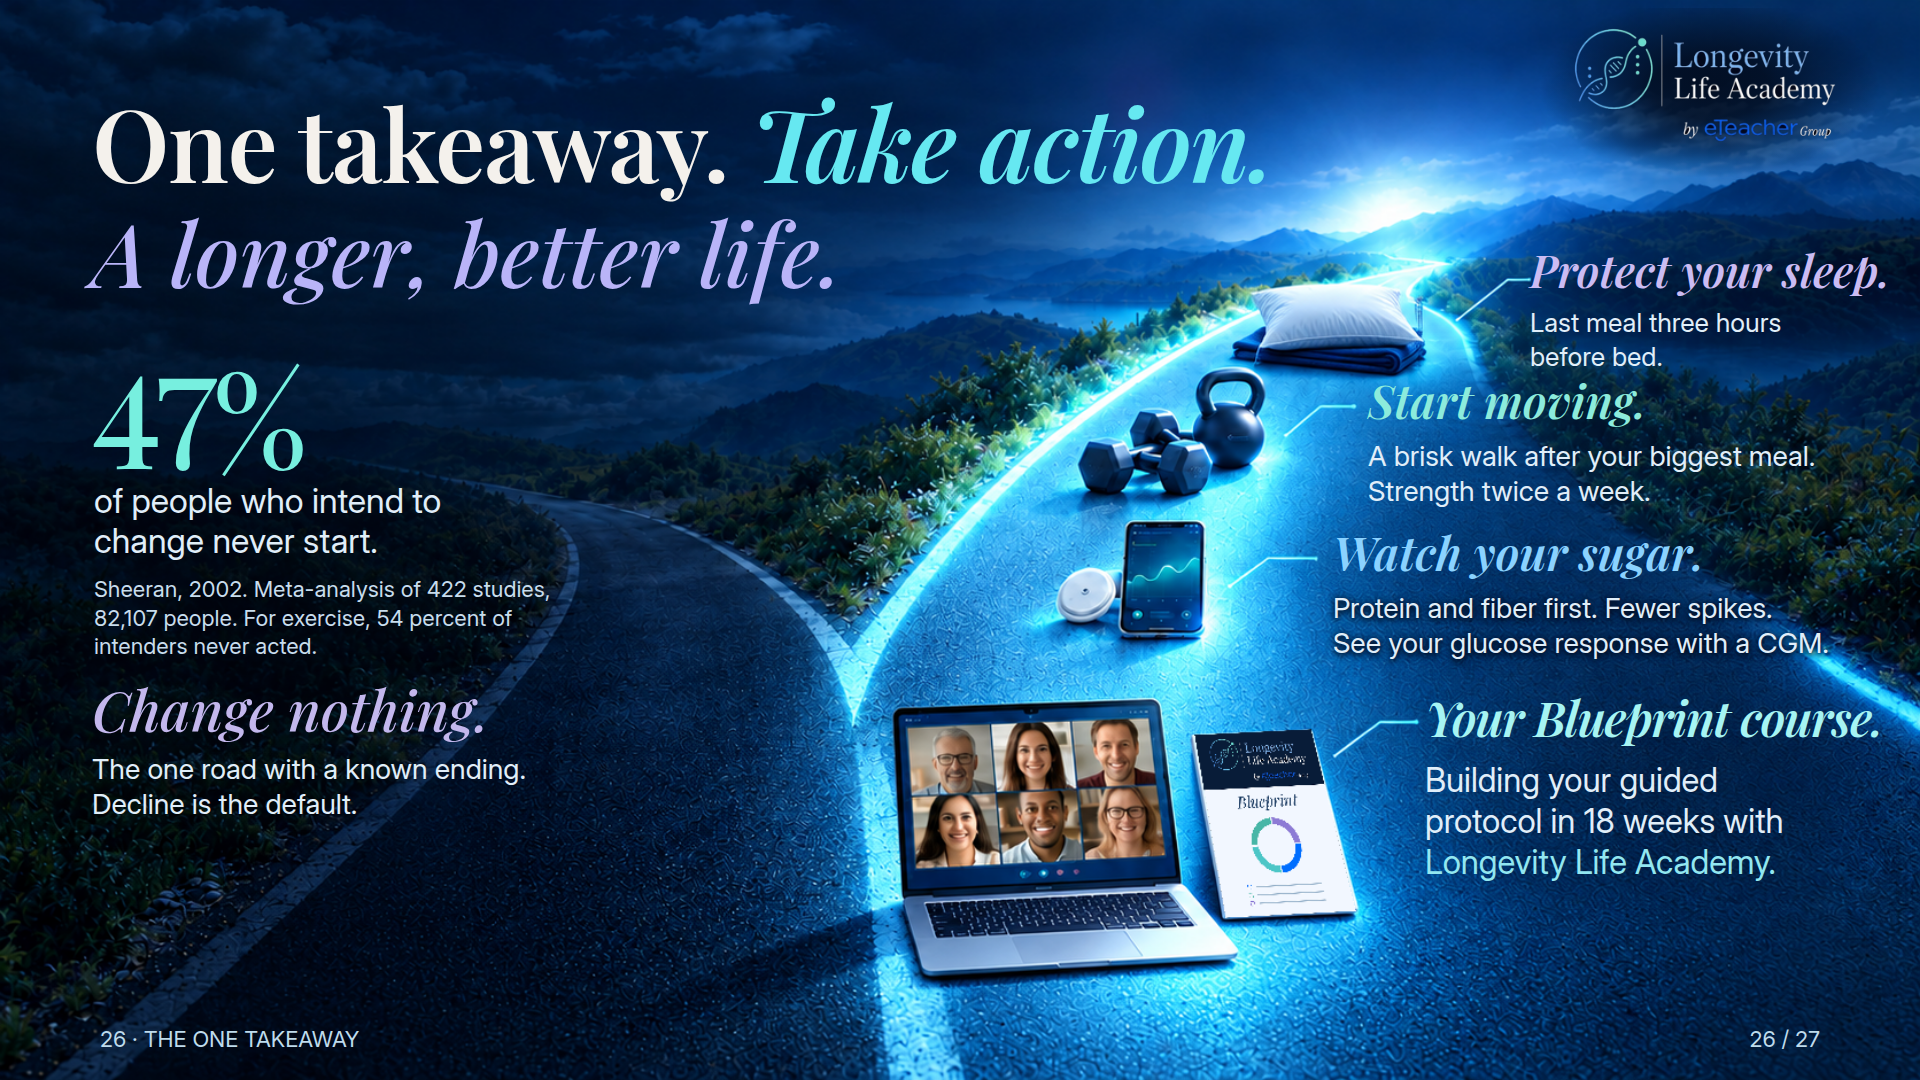
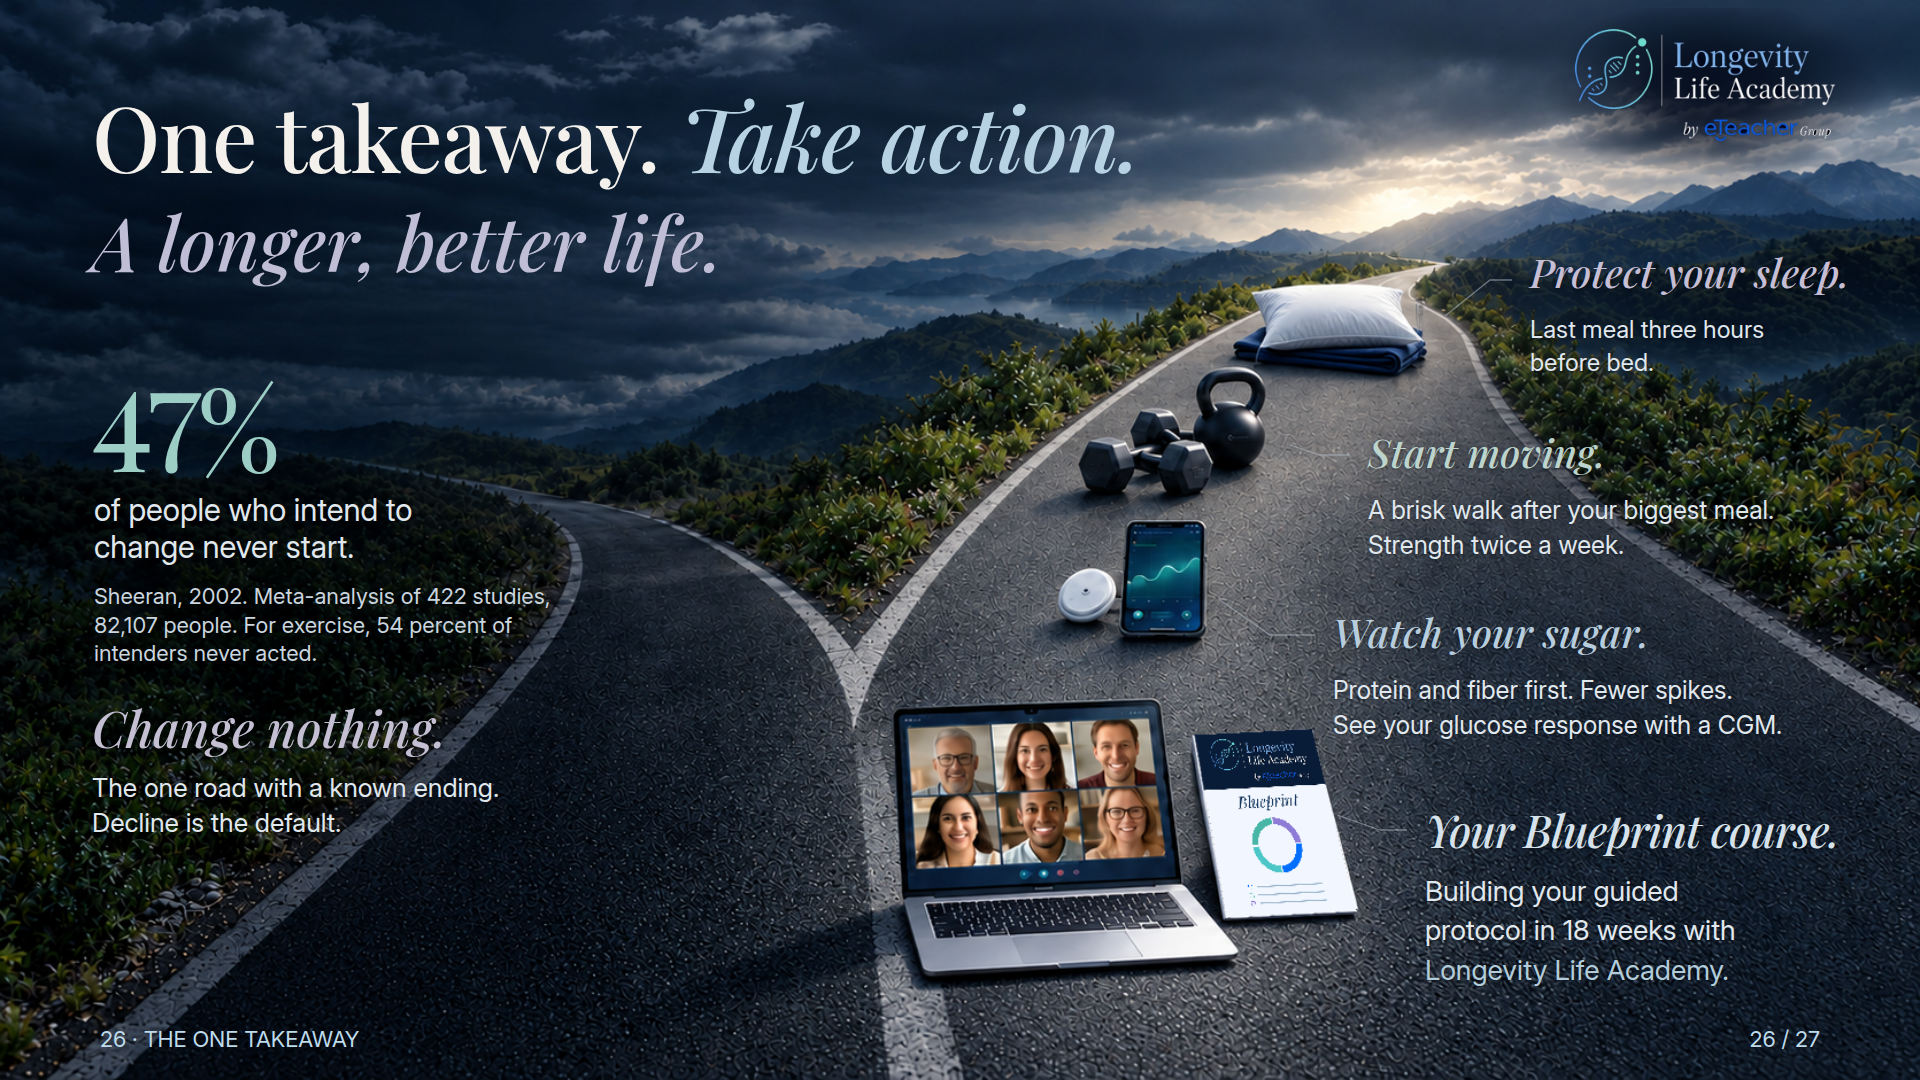
Use natural lighting and more restrained, spacious action typography

diff --git a/slide-canvas/julie/index.html b/slide-canvas/julie/index.html
@@ -59,14 +59,14 @@ textarea:focus{outline:none;border-color:#006EFF;box-shadow:0 0 0 3px rgba(0,110
 <aside class="note"><label for="c18">Your comment on slide 18</label><textarea id="c18" data-n="18" data-t="You don&#x27;t need a lab. You need a notebook." placeholder="Type here. It saves as you type."></textarea><div class="saved" id="v18"></div></aside></section><section class="slot" id="s19"><div class="left"><div class="num">19</div><h2>Test. Then buy.</h2><img class="main" src="../images-logo/github-round-10-25.jpg" alt=""><p class="why">The three tests to ask your doctor about: Vitamin D, Homocysteine, Red blood cell nutrient levels. Your disclosed list is spoken here.</p><div class="opts"><figure><img src="../images/claude-b-16.jpg" loading="lazy" alt=""><span>Option 2</span></figure><figure><img src="../images/github-deck2-dark-16.jpg" loading="lazy" alt=""><span>Option 3</span></figure></div></div>
 <aside class="note"><label for="c19">Your comment on slide 19</label><textarea id="c19" data-n="19" data-t="Test. Then buy." placeholder="Type here. It saves as you type."></textarea><div class="saved" id="v19"></div></aside></section><section class="slot" id="s20"><div class="left"><div class="num">20</div><h2>That&#x27;s the cake.</h2><img class="main" src="../images-logo/github-round-9-27.jpg" alt=""><p class="why">The whole cake, the only one cut.</p><div class="opts"><figure><img src="../images/github-r7-last-27.jpg" loading="lazy" alt=""><span>Option 2</span></figure></div></div>
 <aside class="note"><label for="c20">Your comment on slide 20</label><textarea id="c20" data-n="20" data-t="That&#x27;s the cake." placeholder="Type here. It saves as you type."></textarea><div class="saved" id="v20"></div></aside></section><section class="slot" id="s21"><div class="left"><div class="num">21</div><h2>Why. Intention. Resources.</h2><img class="main" src="../images-logo/github-deck1-dark-17.jpg" alt=""><p class="why">The three questions, and your close.</p><div class="opts"><figure><img src="../images/github-deck1-light-17.jpg" loading="lazy" alt=""><span>Option 2</span></figure><figure><img src="../images/claude-b-17.jpg" loading="lazy" alt=""><span>Option 3</span></figure></div></div>
-<aside class="note"><label for="c21">Your comment on slide 21</label><textarea id="c21" data-n="21" data-t="Why. Intention. Resources." placeholder="Type here. It saves as you type."></textarea><div class="saved" id="v21"></div></aside></section><section class="slot" id="s22"><div class="left"><div class="num">22</div><h2>One takeaway. Take action.</h2><img class="main" src="additional-take-action-20261026.png?v=restored-presence-20261027" alt="One takeaway. Take action."><p class="why">Closing slide: Blueprint, sugar and CGM, movement, then sleep.</p></div><aside class="note"><label for="c22">Your comment on slide 22</label><textarea id="c22" data-n="22" data-t="One takeaway. Take action." placeholder="Type here. It saves as you type."></textarea><div class="saved" id="v22"></div></aside></section><div class="coming"><h3>Still to be built</h3><p class="why" style="margin-top:0;margin-bottom:10px">Two beats from the script are not on a slide yet and will be added in the next round:</p><ul><li>The sauna, your one piece of icing, as its own frame</li><li>It&#x27;s your life. Live it well., the end card for your close</li></ul></div>
+<aside class="note"><label for="c21">Your comment on slide 21</label><textarea id="c21" data-n="21" data-t="Why. Intention. Resources." placeholder="Type here. It saves as you type."></textarea><div class="saved" id="v21"></div></aside></section><section class="slot" id="s22"><div class="left"><div class="num">22</div><h2>One takeaway. Take action.</h2><img class="main" src="additional-take-action-20261026.png?v=natural-light-spacing-20261027" alt="One takeaway. Take action."><p class="why">Closing slide: Blueprint, sugar and CGM, movement, then sleep.</p></div><aside class="note"><label for="c22">Your comment on slide 22</label><textarea id="c22" data-n="22" data-t="One takeaway. Take action." placeholder="Type here. It saves as you type."></textarea><div class="saved" id="v22"></div></aside></section><div class="coming"><h3>Still to be built</h3><p class="why" style="margin-top:0;margin-bottom:10px">Two beats from the script are not on a slide yet and will be added in the next round:</p><ul><li>The sauna, your one piece of icing, as its own frame</li><li>It&#x27;s your life. Live it well., the end card for your close</li></ul></div>
 </div>
 <button id="send" class="btn p" onclick="sendAll()">Send my comments</button>
 <div id="lb" onclick="this.classList.remove('on')"><img id="lbimg" src="" alt=""><div class="x">Close</div></div>
 <div id="play"><img id="pimg" src="" alt=""><div class="x" onclick="stopPlay()">Close, Esc</div><div class="c" id="pc"></div></div>
 <script>
 document.querySelectorAll('.opts img').forEach(im=>{im.loading='eager';im.removeAttribute('disabled');});
-const P=["../images-logo/github-deck2-dark-01.jpg","../images-logo/added-why-light.jpg","../images-logo/github-r7-last-06.jpg","../images-logo/github-deck2-dark-04.jpg","../images-logo/github-r4-v1-05.jpg","../images-logo/github-round-9-11.jpg","../images-logo/github-round-10-12.jpg","../images-logo/claude-b-07.jpg","../images-logo/claude-b-08.jpg","../images-logo/github-round-10-15.jpg","../images-logo/github-r6-v2-10.jpg","../images-logo/github-round-10-17.jpg","../images-logo/github-deck2-dark-11.jpg","../images-logo/github-r7-last-19.jpg","../images-logo/github-deck2-dark-13.jpg","../images-logo/claude-b-14.jpg","../images-logo/github-deck2-light-15.jpg","../images-logo/github-round-10-24.jpg","../images-logo/github-round-10-25.jpg","../images-logo/github-round-9-27.jpg","../images-logo/github-deck1-dark-17.jpg","additional-take-action-20261026.png?v=restored-presence-20261027"];let k=0;
+const P=["../images-logo/github-deck2-dark-01.jpg","../images-logo/added-why-light.jpg","../images-logo/github-r7-last-06.jpg","../images-logo/github-deck2-dark-04.jpg","../images-logo/github-r4-v1-05.jpg","../images-logo/github-round-9-11.jpg","../images-logo/github-round-10-12.jpg","../images-logo/claude-b-07.jpg","../images-logo/claude-b-08.jpg","../images-logo/github-round-10-15.jpg","../images-logo/github-r6-v2-10.jpg","../images-logo/github-round-10-17.jpg","../images-logo/github-deck2-dark-11.jpg","../images-logo/github-r7-last-19.jpg","../images-logo/github-deck2-dark-13.jpg","../images-logo/claude-b-14.jpg","../images-logo/github-deck2-light-15.jpg","../images-logo/github-round-10-24.jpg","../images-logo/github-round-10-25.jpg","../images-logo/github-round-9-27.jpg","../images-logo/github-deck1-dark-17.jpg","additional-take-action-20261026.png?v=natural-light-spacing-20261027"];let k=0;
 const T=[...document.querySelectorAll('textarea')];
 T.forEach(t=>{const key='julie-deck-c'+t.dataset.n;t.value=localStorage.getItem(key)||'';if(t.value)document.getElementById('v'+t.dataset.n).textContent='Saved';t.addEventListener('input',()=>{localStorage.setItem(key,t.value);document.getElementById('v'+t.dataset.n).textContent='Saved';});});
 function sendAll(){const lines=T.filter(t=>t.value.trim()).map(t=>'Slide '+t.dataset.n+', '+t.dataset.t+':\n'+t.value.trim());if(!lines.length){alert('No comments yet. Type into a box next to a slide first.');return;}const body=lines.join('\n\n')+'\n\n'+location.href;navigator.clipboard&&navigator.clipboard.writeText(body).catch(()=>{});location.href='mailto:gitter.omri@gita-agency.com?subject='+encodeURIComponent('Masterclass deck, my comments')+'&body='+encodeURIComponent(body);}

diff --git a/slide-canvas/julie/additional-take-action-source.html b/slide-canvas/julie/additional-take-action-source.html
@@ -7,39 +7,40 @@
 @font-face{font-family:Inter;src:url(../../deck2/fonts/Inter.ttf);font-weight:100 900;font-display:block}
 *{box-sizing:border-box;margin:0}
 html,body{background:#04122a}
-.slide{position:relative;width:1920px;height:1080px;overflow:hidden;color:#e0eef9;font:400 29px/1.3 Inter,sans-serif;-webkit-font-smoothing:antialiased}
+.slide{position:relative;width:1920px;height:1080px;overflow:hidden;color:#e0e8ee;font:400 27px/1.3 Inter,sans-serif;-webkit-font-smoothing:antialiased}
 .art{position:absolute;inset:0;width:100%;height:100%;object-fit:fill}
 .logo-backdrop{position:absolute;right:40px;top:8px;width:340px;height:180px;background:radial-gradient(ellipse 170px 90px at 170px 80px,rgba(2,10,26,.9) 0%,rgba(2,10,26,.82) 35%,transparent 100%)}
 .logo{position:absolute;right:80px;top:24px;width:270px;height:auto}
-h1{position:absolute;left:92px;top:88px;font:600 100px/1.08 Playfair,serif;letter-spacing:-.014em;color:#f4f1ec;white-space:nowrap}
-h1 i{font-style:italic;color:#66e8f1}
-.payoff{position:absolute;left:92px;top:204px;font:italic 500 88px/1.08 Playfair,serif;color:#b9b4f8}
-.number{position:absolute;left:92px;top:352px;font:500 128px/1 Playfair,serif;font-variant-numeric:lining-nums;letter-spacing:-.035em;color:#77efdf}
-.stat{position:absolute;left:94px;top:481px;width:490px;font-size:34px;line-height:1.18}
-.citation{position:absolute;left:94px;top:575px;width:475px;font-size:22px;line-height:1.3;color:#c8dded}
-.nothing{position:absolute;left:92px;top:678px;width:520px}
-.nothing h2{font:italic 500 56px/1.1 Playfair,serif;color:#c3b7ed}
-.nothing p{font-size:28px;line-height:1.28;margin-top:12px}
-.step{position:absolute}
-.step h2{font:italic 600 46px/1.12 Playfair,serif;white-space:nowrap}
-.step p{margin-top:12px;font-size:28px;line-height:1.28}
-.sleep{left:1530px;top:245px;width:350px}
-.sleep h2{font-size:44px;color:#cbbcf3}
-.sleep p{font-size:26px}
-.move{left:1368px;top:375px;width:500px}
-.move h2{color:#8cebdc}
-.sugar{left:1333px;top:527px;width:545px}
-.sugar h2{color:#8ad2ff}
-.sugar p{font-size:28px;text-shadow:0 2px 5px #020b1d,0 0 9px #020b1d}
-.course{left:1425px;top:691px;width:455px}
-.course h2{font-size:48px;letter-spacing:-.025em;color:#a6f4f3}
-.course p{font-size:33px;line-height:1.24;margin-top:15px}
-.course .academy{color:#92e7f0}
+h1{position:absolute;left:92px;top:88px;font:500 90px/1.08 Playfair,serif;letter-spacing:-.014em;color:#f4f1ec;white-space:nowrap}
+h1 i{font-style:italic;color:#b7d2e3}
+.payoff{position:absolute;left:92px;top:202px;font:italic 500 74px/1.08 Playfair,serif;color:#c0bdd6}
+.number{position:absolute;left:92px;top:370px;font:500 112px/1 Playfair,serif;font-variant-numeric:lining-nums;letter-spacing:-.035em;color:#9dcec6}
+.stat{position:absolute;left:94px;top:492px;width:490px;font-size:31px;line-height:1.18}
+.citation{position:absolute;left:94px;top:582px;width:475px;font-size:22px;line-height:1.3;color:#cad5df}
+.nothing{position:absolute;left:92px;top:700px;width:520px}
+.nothing h2{font:italic 500 50px/1.1 Playfair,serif;color:#c5bfd4}
+.nothing p{font-size:26px;line-height:1.36;margin-top:15px}
+.leaders{position:absolute;inset:0;width:1920px;height:1080px;pointer-events:none}
+.step{position:absolute;text-shadow:0 1px 3px rgba(3,10,18,.35)}
+.step h2{font:italic 500 40px/1.12 Playfair,serif;white-space:nowrap}
+.step p{margin-top:18px;font-size:25px;line-height:1.4}
+.sleep{left:1530px;top:250px;width:350px}
+.sleep h2{color:#c5bed5}
+.sleep p{font-size:24px}
+.move{left:1368px;top:430px;width:500px}
+.move h2{color:#bdd4cd}
+.sugar{left:1333px;top:610px;width:545px}
+.sugar h2{color:#b7cddd}
+.course{left:1425px;top:805px;width:455px}
+.course h2{font-size:44px;letter-spacing:-.02em;color:#d6e2eb}
+.course p{font-size:28px;line-height:1.4;margin-top:18px}
+.course .academy{color:#b2ccd9}
 .footer{position:absolute;bottom:26px;font-size:22px;color:#bedbec}
 .chapter{left:100px}.page{right:100px}
 </style></head><body>
 <main class="slide">
-<img class="art" src="closing-graphics/native-fonts-objects-base.png" alt="">
+<img class="art" src="closing-graphics/natural-light-objects-base.png" alt="">
+<svg class="leaders" viewBox="0 0 1920 1080" aria-hidden="true"><g fill="none" stroke="#b0bcc7" stroke-width="1.3" opacity=".55"><path d="M1445 316L1490 280H1512"/><path d="M1290 445L1320 455H1350"/><path d="M1220 600L1270 635H1315"/><path d="M1337 815L1380 830H1407"/></g></svg>
 <div class="logo-backdrop" aria-hidden="true"></div>
 <img class="logo" src="closing-graphics/lla-logo-original.png" alt="Longevity Life Academy by eTeacher Group">
 <h1>One takeaway. <i>Take action.</i></h1>
